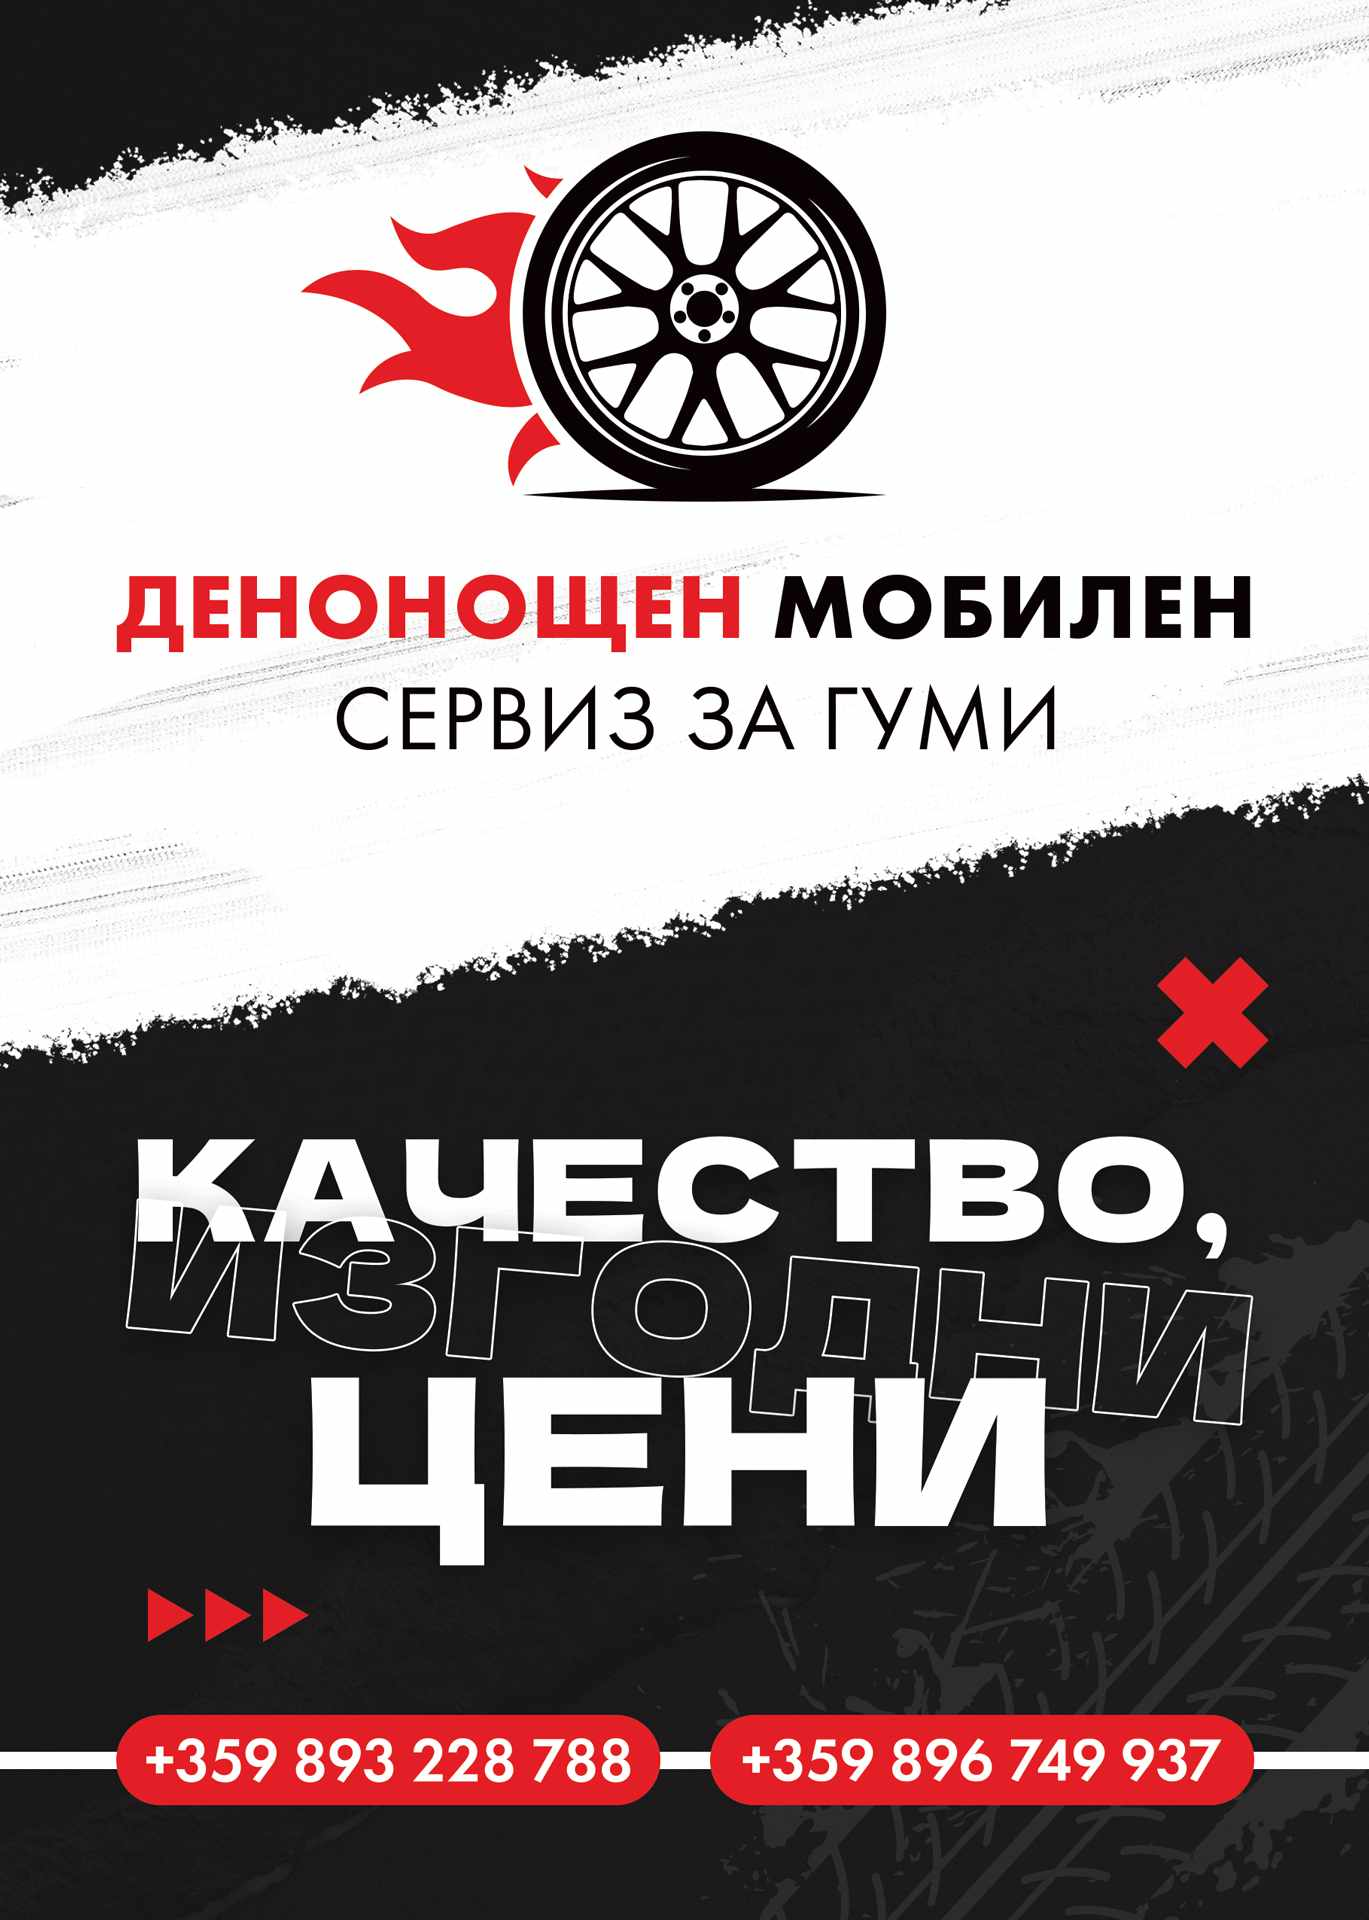
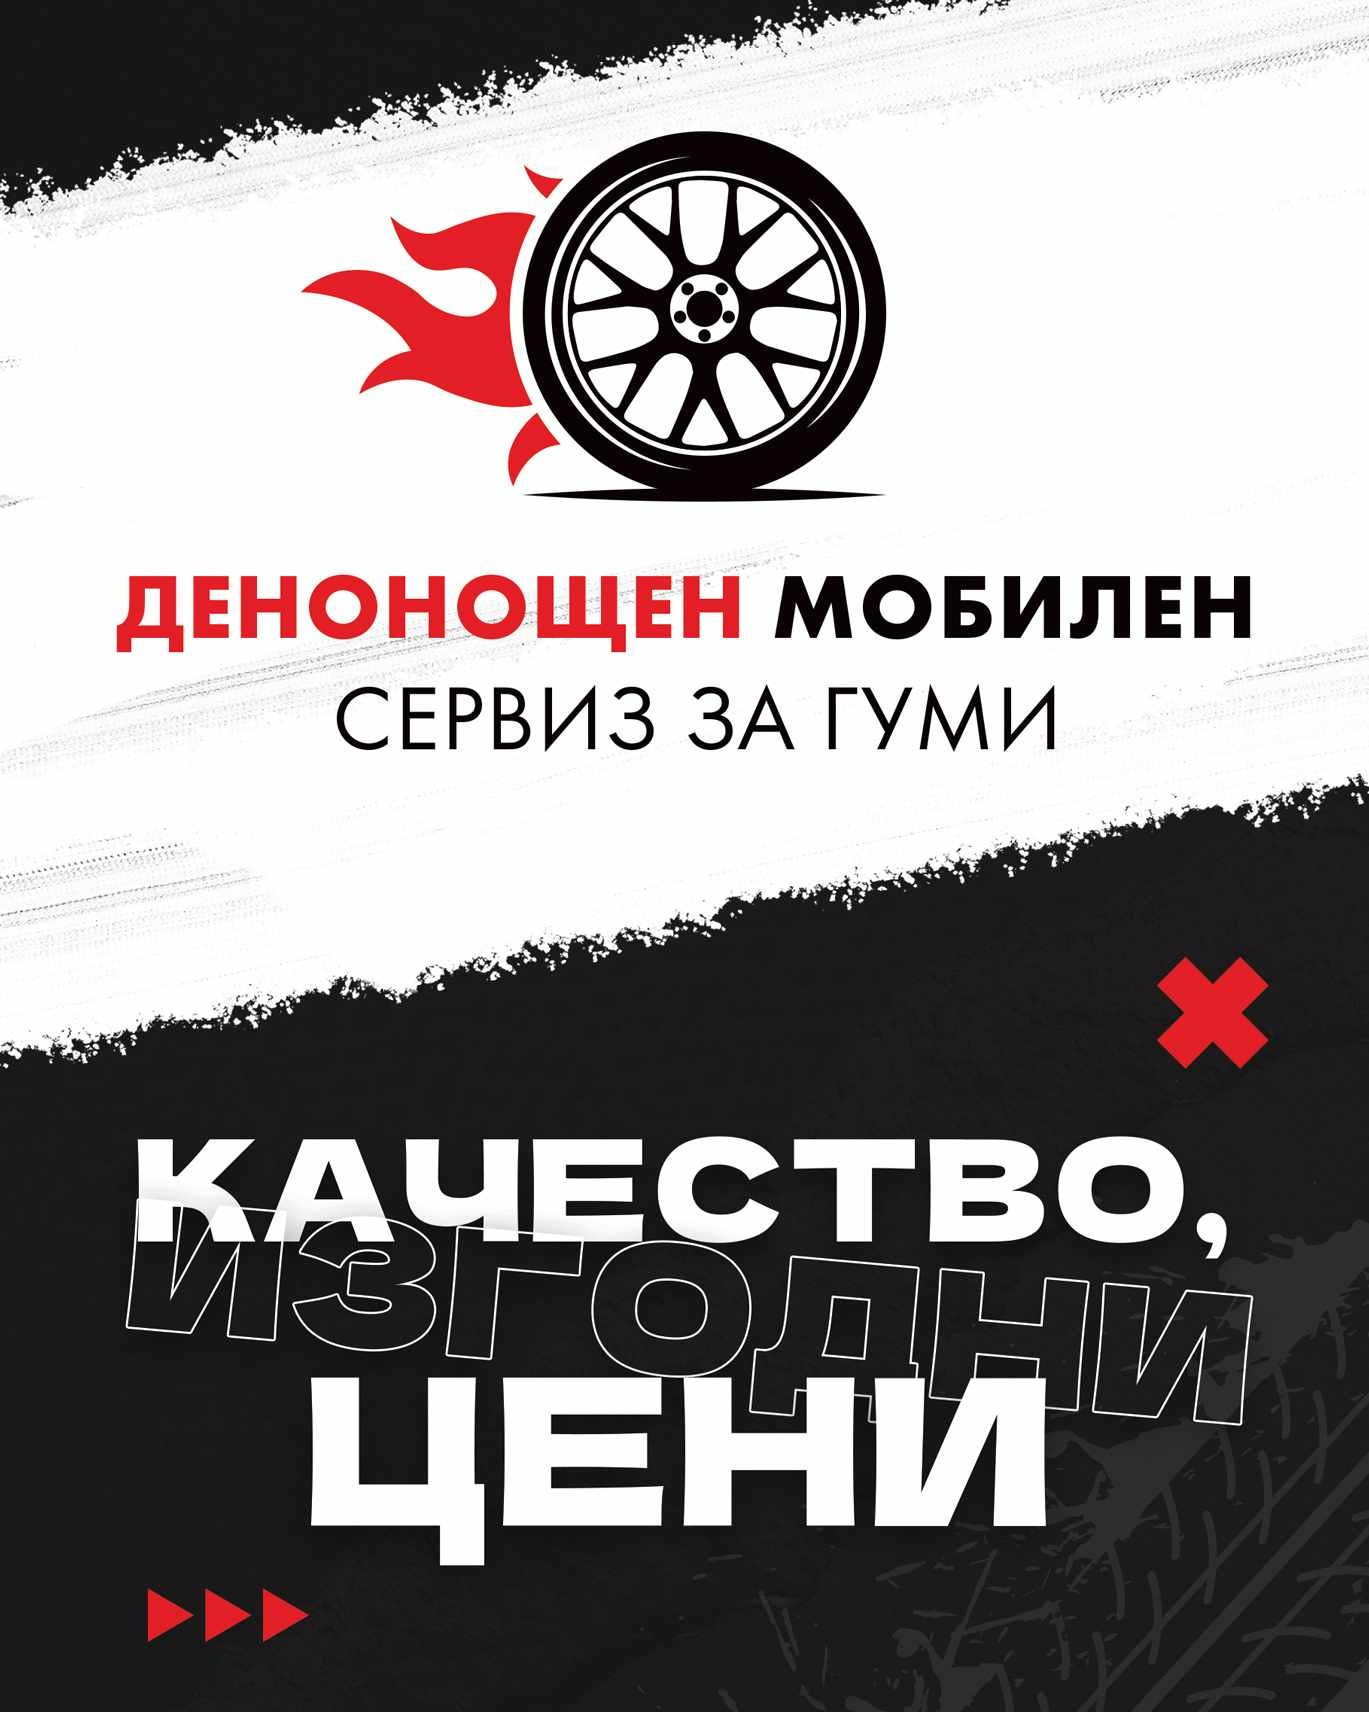
UI changes

diff --git a/src/components/organisms/Start/Start.js b/src/components/organisms/Start/Start.js
@@ -6,15 +6,20 @@ const Start = () => {
   return (
     <div className={styles.StartWrapper}>
       <img alt="test" className={styles.StartImage} src={BackgroundImage2} />
-
-      <a href="tel:+359893228788">
-        <img
+      <img
           alt="test"
           className={styles.StartText2}
           style={{ width: "410px" }}
           src={FlairImage}
         />
-      </a>
+      {/* <div clasName = {styles.FlairWrapper}>
+        <a href="tel:+359893228788">
+          <button className={styles.Btn}>0893228788 </button>
+        </a>
+        <a href="tel:+359896749937">
+          <button className={styles.Btn}>0896749937 </button>
+        </a>
+      </div> */}
     </div>
   );
 };

diff --git a/src/componentsMobile/footer/Footer.jsx b/src/componentsMobile/footer/Footer.jsx
@@ -10,6 +10,8 @@ const Footer = ({ targetElementRef }) => {
             color: "white",
             textAlign: "center",
             textDecoration: "none",
+            fontWeight:'bold'
+
           }}
         >
           +359 893 228 788
@@ -23,6 +25,7 @@ const Footer = ({ targetElementRef }) => {
             color: "white",
             textAlign: "center",
             textDecoration: "none",
+            fontWeight:'bold'
           }}
         >
           +359 896 749 937

diff --git a/src/components/organisms/Start/Start.module.scss b/src/components/organisms/Start/Start.module.scss
@@ -2,7 +2,11 @@
   display: flex;
   flex-direction: column;
   width: 100%;
-
+  .FlairWrapper{
+    display:flex;
+    width: 100%;
+    justify-content: center;
+  }
   .StartImage {
     max-height:600px;
     width: 100%;
@@ -46,7 +50,7 @@
     align-items: center;
     justify-content: center;
     display: flex;
-    top: 110px;
+    top: 160px;
     left: 0;
     right: 0;
     margin: 0 auto;

diff --git a/src/componentsMobile/Start/Start.js b/src/componentsMobile/Start/Start.js
@@ -4,14 +4,13 @@ import FlairImage from "../../assets/images/flair2.jpg";
 const Start = () => {
   return (
     <div className={styles.StartWrapper}>
-      <a href="tel:+359893228788">
         <img
           alt="Contact"
           className={styles.StartText2}
           style={{ width: "100%" }}
           src={FlairImage}
         />
-      </a>
+ 
     </div>
   );
 };

diff --git a/src/componentsMobile/MobileLayout/MobileLayout.js b/src/componentsMobile/MobileLayout/MobileLayout.js
@@ -43,6 +43,7 @@ const MobileLayout = () => {
     <div className={styles.MobileWrapper}>
       <Header scrollToElement={scrollToElement} />
       <Start />
+      <Footer />
       <Services targetElementRef={targetElementServicesRef} />
       <PriceList targetElementRef={targetElementPricesRef} />
       <Footer targetElementRef={targetElementFooterRef} />

diff --git a/src/components/organisms/DesktopLayout/DesktopLayout.js b/src/components/organisms/DesktopLayout/DesktopLayout.js
@@ -37,7 +37,9 @@ const DesktopLayout = () => {
   return (
     <div className={styles.DesktopWrapper}>
       <Header scrollToElement={scrollToElement} />
+   
       <Start />
+      <Footer />
       <Services targetElementRef={targetElementServicesRef} />
       <PriceList targetElementRef={targetElementPricesRef} />
       <Footer />

diff --git a/src/components/molecules/footer/Footer.module.scss b/src/components/molecules/footer/Footer.module.scss
@@ -5,7 +5,8 @@
   gap: 100px;
   width: 100%;
   height: 80px;
-  background-color: rgba(0, 0, 0, 0.925);
+  background-color: #1B1B1B;
+  margin-top: 10px;
 }
 .ContactPhone {
   display: flex;

diff --git a/src/componentsMobile/footer/Footer.module.scss b/src/componentsMobile/footer/Footer.module.scss
@@ -5,7 +5,7 @@
   width: 100%;
   gap: 20px;
   height: 80px;
-  background-color: black;
+  background-color: #1B1B1B;
 }
 .ContactPhone {
   display: flex;
